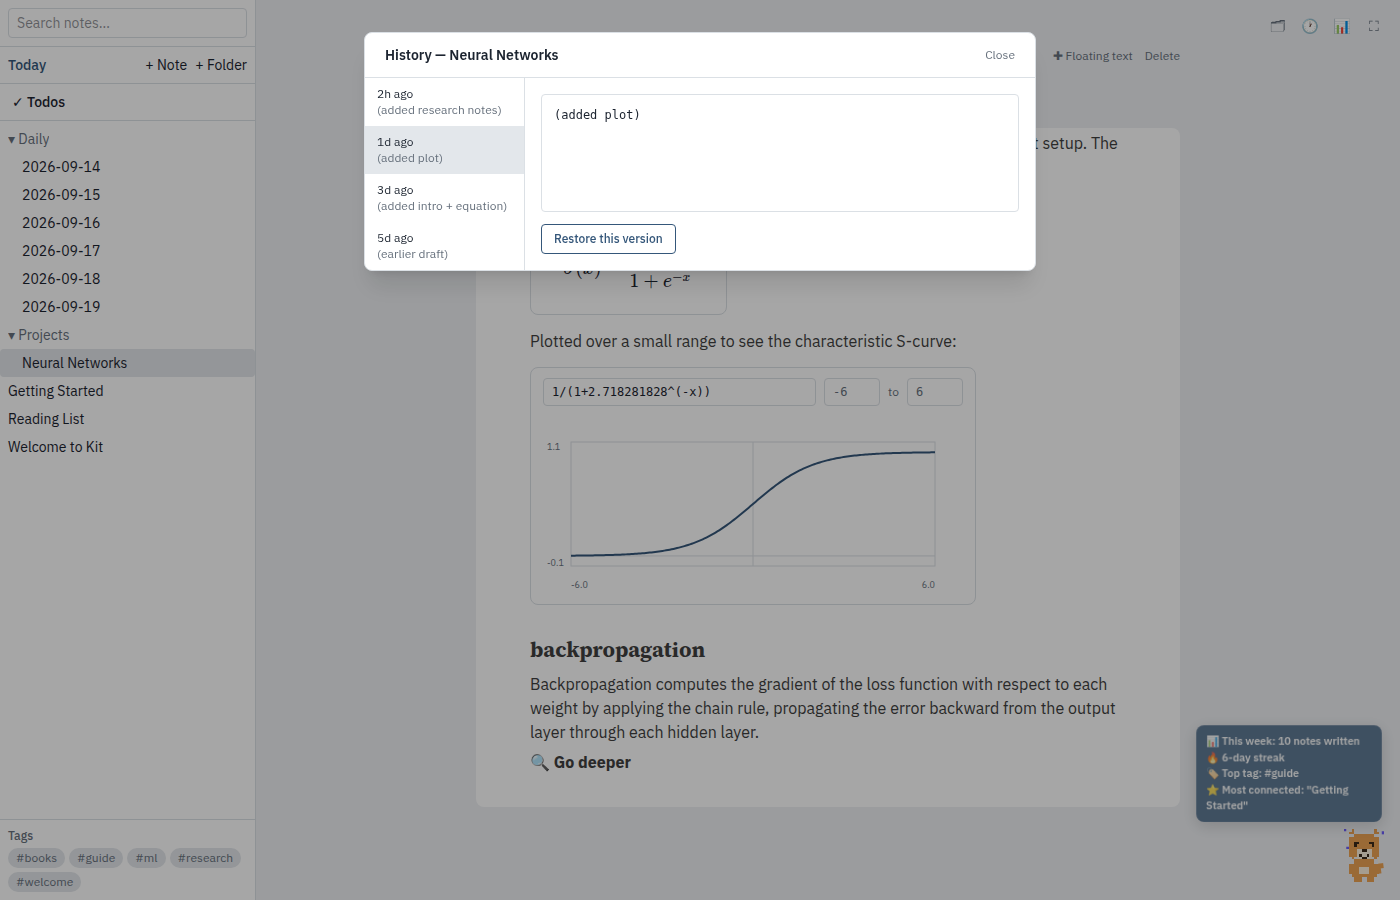
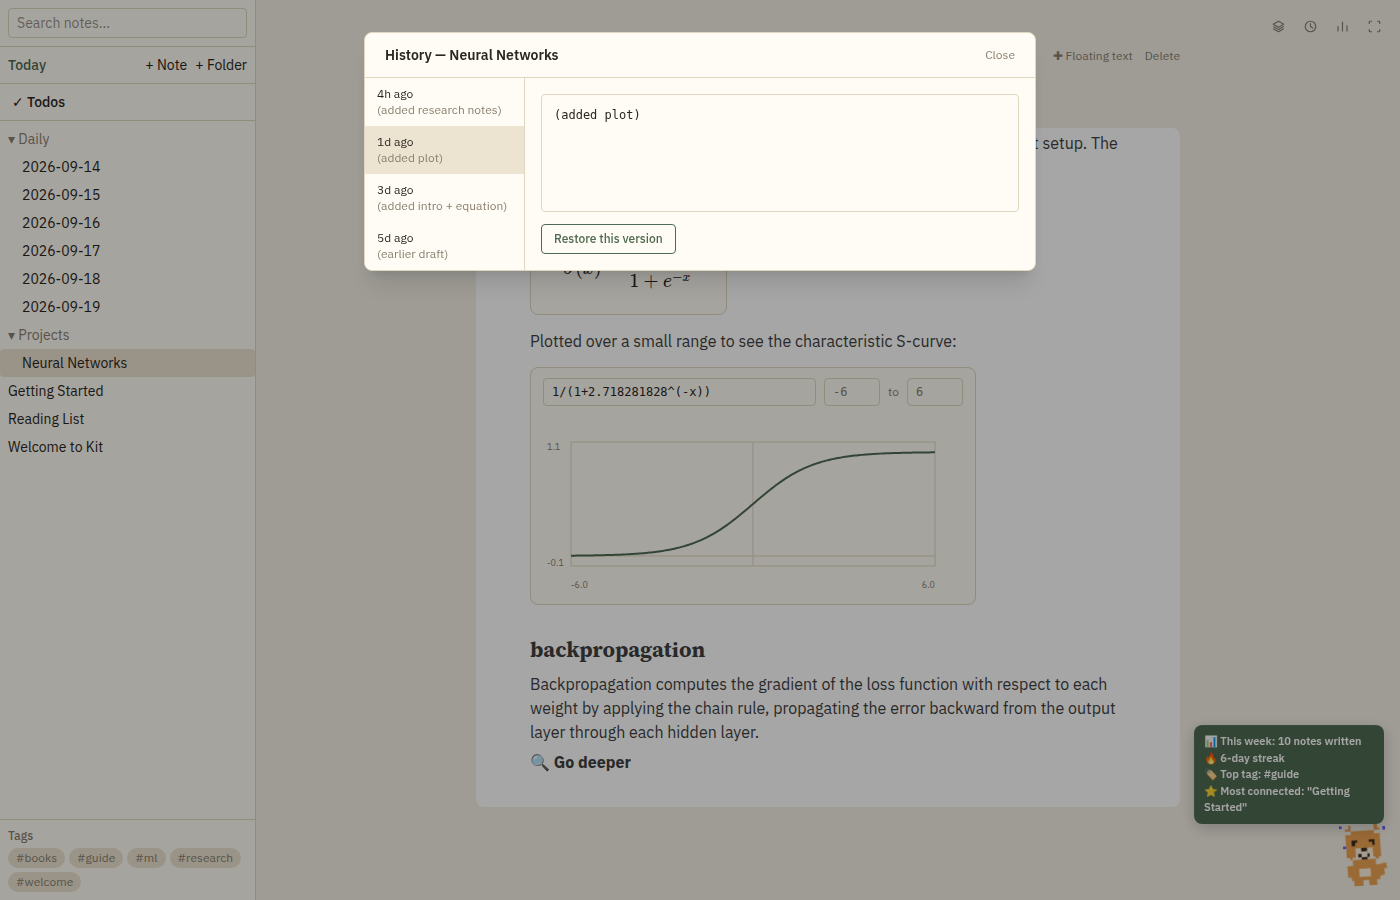
Revisit the theme: cream + moss green, and fix real theming bugs
Switched the palette from the cool ink/steel direction to warm cream,
grounded in the desk buddy's own fur/cream colors — but paired with a
moss-green accent instead of orange/terracotal, so the fox's fur stays
the one exclusively warm color in the app rather than the whole UI
reaching for the same note (that pairing is also the specific "AI
design cliché" combo worth steering around).

Also fixed three real bugs surfaced while testing in the actual app,
not just the light-mode screenshot harness:

- Dark mode was reading as near-black; replaced with a warm espresso
  tone that's dark without being harsh.
- Native <select>/<input type="date"> elements (todo status, priority,
  deadline) don't inherit CSS custom properties — they were falling
  back to a stark white box regardless of theme. Now explicitly
  themed, plus `color-scheme` set so the browser's own dropdown/
  date-picker chrome matches light or dark correctly.
- The toolbar icons (note history, edit-history gutter, insights,
  focus mode) were emoji, which render in fixed native colors no CSS
  `color` can touch — replaced with small monochrome SVG icons
  (src/components/icons.tsx) that actually inherit the theme.

Verified both light and dark mode via the headless-browser screenshot
harness before pushing; walkthrough screenshots updated to match.

Changed region(s): [[0.8293, 0.7778, 1.0, 0.9956], [0.2457, 0.1244, 0.3993, 0.2178], [0.3993, 0.2489, 0.4607, 0.28]]

diff --git a/src/components/TodoDetailView.tsx b/src/components/TodoDetailView.tsx
@@ -121,8 +121,8 @@ function BoundTodoDetail({ item }: { item: TodoItem }) {
             <select
               value={item.status}
               onChange={(e) => void updateTodoItem(item.id, { status: e.target.value as TodoStatus })}
-              className="rounded border bg-transparent px-1 py-0.5"
-              style={{ borderColor: "var(--border)", color: "var(--text)" }}
+              className="rounded border px-1 py-0.5"
+              style={{ borderColor: "var(--border)", color: "var(--text)", background: "var(--bg-panel)" }}
             >
               {STATUS_OPTIONS.map((o) => (
                 <option key={o.value} value={o.value}>
@@ -137,8 +137,8 @@ function BoundTodoDetail({ item }: { item: TodoItem }) {
             <select
               value={item.priority}
               onChange={(e) => void updateTodoItem(item.id, { priority: e.target.value as TodoPriority })}
-              className="rounded border bg-transparent px-1 py-0.5"
-              style={{ borderColor: "var(--border)", color: "var(--text)" }}
+              className="rounded border px-1 py-0.5"
+              style={{ borderColor: "var(--border)", color: "var(--text)", background: "var(--bg-panel)" }}
             >
               {PRIORITY_OPTIONS.map((o) => (
                 <option key={o.value} value={o.value}>
@@ -154,8 +154,8 @@ function BoundTodoDetail({ item }: { item: TodoItem }) {
               type="date"
               value={item.deadline ?? ""}
               onChange={(e) => void updateTodoItem(item.id, { deadline: e.target.value || null })}
-              className="rounded border bg-transparent px-1 py-0.5"
-              style={{ borderColor: "var(--border)", color: "var(--text)" }}
+              className="rounded border px-1 py-0.5"
+              style={{ borderColor: "var(--border)", color: "var(--text)", background: "var(--bg-panel)" }}
             />
           </label>
 

diff --git a/src/index.css b/src/index.css
@@ -37,26 +37,32 @@
   --font-serif: "Source Serif 4", Georgia, "Times New Roman", serif;
   --font-mono: "IBM Plex Mono", ui-monospace, SFMono-Regular, Menlo, Consolas, monospace;
 
-  /* Cool, neutral "ink and steel" palette — deliberately not warm/cream, so
-     the desk buddy's fur is the only warm color anywhere in the app. */
-  --bg: #eef0f3;
-  --bg-panel: #ffffff;
-  --bg-hover: #e3e7eb;
-  --border: #dbe0e5;
-  --text: #1c2430;
-  --text-muted: #67717d;
-  --accent: #35577a;
+  /* Warm parchment, grounded in the desk buddy's own fur/cream colors —
+     but paired with a moss-green accent rather than orange/terracotta, so
+     the fox's fur stays the one exclusively warm color in the app instead
+     of the whole UI reaching for the same note. */
+  --bg: #f4f0e6;
+  --bg-panel: #fffcf5;
+  --bg-hover: #ece4d0;
+  --border: #e0d7c0;
+  --text: #2b2620;
+  --text-muted: #8a8071;
+  --accent: #4f6a52;
+  color-scheme: light;
 }
 
 @media (prefers-color-scheme: dark) {
   :root {
-    --bg: #14181d;
-    --bg-panel: #1c2128;
-    --bg-hover: #262c34;
-    --border: #2e353d;
-    --text: #e7eaed;
-    --text-muted: #8b95a1;
-    --accent: #7fa8cc;
+    /* Warm espresso dark mode, not cool graphite — kept dark without going
+       to near-black, which read as harsh. */
+    --bg: #221e18;
+    --bg-panel: #2b2620;
+    --bg-hover: #373126;
+    --border: #4a4233;
+    --text: #f0ead9;
+    --text-muted: #a89b83;
+    --accent: #8bab84;
+    color-scheme: dark;
   }
 }
 

diff --git a/src/components/icons.tsx b/src/components/icons.tsx
@@ -1,0 +1,46 @@
+// Small monochrome line icons for the toolbar. Plain emoji were used before,
+// but emoji render in their own fixed native colors regardless of CSS
+// `color`, so they clashed with the app's palette — these use `currentColor`
+// and inherit whatever color their containing button sets.
+
+const common = { width: 15, height: 15, viewBox: "0 0 20 20", fill: "none", stroke: "currentColor" };
+
+export function FocusIcon() {
+  return (
+    <svg {...common} strokeWidth={1.6} strokeLinecap="round">
+      <path d="M6 3H4a1 1 0 0 0-1 1v2" />
+      <path d="M14 3h2a1 1 0 0 1 1 1v2" />
+      <path d="M6 17H4a1 1 0 0 1-1-1v-2" />
+      <path d="M14 17h2a1 1 0 0 0 1-1v-2" />
+    </svg>
+  );
+}
+
+export function ClockIcon() {
+  return (
+    <svg {...common} strokeWidth={1.6} strokeLinecap="round" strokeLinejoin="round">
+      <circle cx="10" cy="10" r="7" />
+      <path d="M10 6v4l3 2" />
+    </svg>
+  );
+}
+
+export function ChartIcon() {
+  return (
+    <svg {...common} strokeWidth={1.6} strokeLinecap="round" strokeLinejoin="round">
+      <path d="M4 16V10" />
+      <path d="M10 16V4" />
+      <path d="M16 16v-7" />
+    </svg>
+  );
+}
+
+export function LayersIcon() {
+  return (
+    <svg {...common} strokeWidth={1.6} strokeLinejoin="round">
+      <path d="M10 3 3 7l7 4 7-4-7-4Z" />
+      <path d="m3 10 7 4 7-4" />
+      <path d="m3 13 7 4 7-4" />
+    </svg>
+  );
+}

diff --git a/src/components/NoteHistoryToggle.tsx b/src/components/NoteHistoryToggle.tsx
@@ -1,4 +1,5 @@
 import { useAppStore } from "../state/store";
+import { LayersIcon } from "./icons";
 
 export function NoteHistoryToggle() {
   const currentNote = useAppStore((s) => s.currentNote);
@@ -10,10 +11,10 @@ export function NoteHistoryToggle() {
       onClick={() => !disabled && setOpen(true)}
       title={disabled ? "Open a note to see its history" : "Note history"}
       disabled={disabled}
-      className="fixed right-[6.75rem] top-3 z-30 flex h-7 w-7 items-center justify-center rounded text-sm"
+      className="fixed right-[6.75rem] top-3 z-30 flex h-7 w-7 items-center justify-center rounded"
       style={{ color: "var(--text-muted)", opacity: disabled ? 0.35 : 1, cursor: disabled ? "default" : "pointer" }}
     >
-      🗂
+      <LayersIcon />
     </button>
   );
 }

diff --git a/src/components/BlockHistoryToggle.tsx b/src/components/BlockHistoryToggle.tsx
@@ -1,4 +1,5 @@
 import { useAppStore } from "../state/store";
+import { ClockIcon } from "./icons";
 
 export function BlockHistoryToggle() {
   const showBlockHistory = useAppStore((s) => s.showBlockHistory);
@@ -8,10 +9,10 @@ export function BlockHistoryToggle() {
     <button
       onClick={toggleBlockHistory}
       title={showBlockHistory ? "Hide edit history gutter" : "Show edit history gutter"}
-      className="fixed right-[4.75rem] top-3 z-30 flex h-7 w-7 items-center justify-center rounded text-sm"
+      className="fixed right-[4.75rem] top-3 z-30 flex h-7 w-7 items-center justify-center rounded"
       style={{ color: showBlockHistory ? "var(--accent)" : "var(--text-muted)" }}
     >
-      🕐
+      <ClockIcon />
     </button>
   );
 }

diff --git a/src/components/FocusToggle.tsx b/src/components/FocusToggle.tsx
@@ -1,4 +1,5 @@
 import { useAppStore } from "../state/store";
+import { FocusIcon } from "./icons";
 
 export function FocusToggle() {
   const sidebarHidden = useAppStore((s) => s.sidebarHidden);
@@ -8,10 +9,10 @@ export function FocusToggle() {
     <button
       onClick={toggleSidebar}
       title={sidebarHidden ? "Show sidebar" : "Hide sidebar (focus mode)"}
-      className="fixed right-3 top-3 z-30 flex h-7 w-7 items-center justify-center rounded text-sm"
-      style={{ color: "var(--text-muted)" }}
+      className="fixed right-3 top-3 z-30 flex h-7 w-7 items-center justify-center rounded"
+      style={{ color: sidebarHidden ? "var(--accent)" : "var(--text-muted)" }}
     >
-      ⛶
+      <FocusIcon />
     </button>
   );
 }

diff --git a/src/components/InsightsToggle.tsx b/src/components/InsightsToggle.tsx
@@ -1,4 +1,5 @@
 import { useAppStore } from "../state/store";
+import { ChartIcon } from "./icons";
 
 export function InsightsToggle() {
   const setOpen = useAppStore((s) => s.setInsightsPanelOpen);
@@ -7,10 +8,10 @@ export function InsightsToggle() {
     <button
       onClick={() => setOpen(true)}
       title="Insights"
-      className="fixed right-11 top-3 z-30 flex h-7 w-7 items-center justify-center rounded text-sm"
+      className="fixed right-11 top-3 z-30 flex h-7 w-7 items-center justify-center rounded"
       style={{ color: "var(--text-muted)" }}
     >
-      📊
+      <ChartIcon />
     </button>
   );
 }

diff --git a/src/components/TodoListView.tsx b/src/components/TodoListView.tsx
@@ -107,8 +107,8 @@ function TodoRow({
       <select
         value={item.status}
         onChange={(e) => onStatusChange(e.target.value as TodoStatus)}
-        className="shrink-0 rounded border bg-transparent px-1 py-0.5 text-xs"
-        style={{ borderColor: "var(--border)", color: "var(--text-muted)" }}
+        className="shrink-0 rounded border px-1 py-0.5 text-xs"
+        style={{ borderColor: "var(--border)", color: "var(--text-muted)", background: "var(--bg-panel)" }}
       >
         {(Object.keys(STATUS_LABEL) as TodoStatus[]).map((s) => (
           <option key={s} value={s}>
